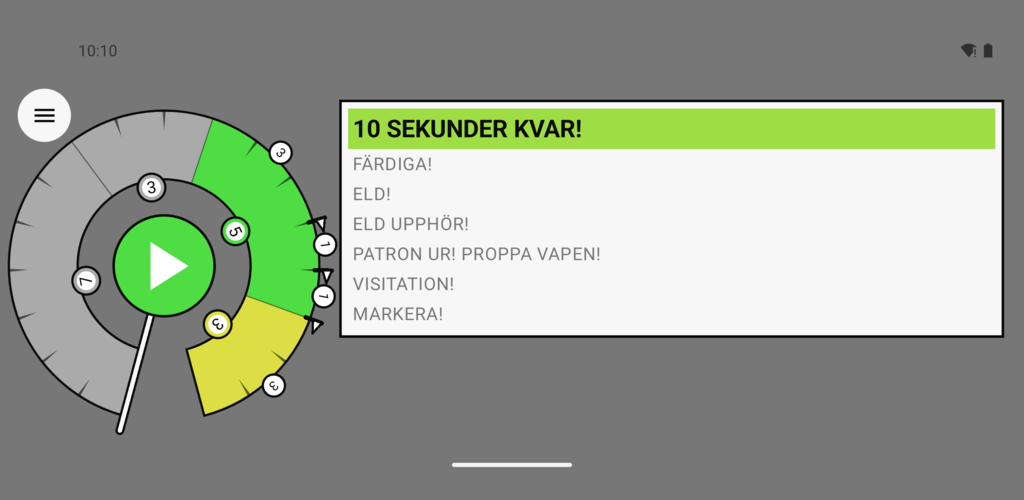
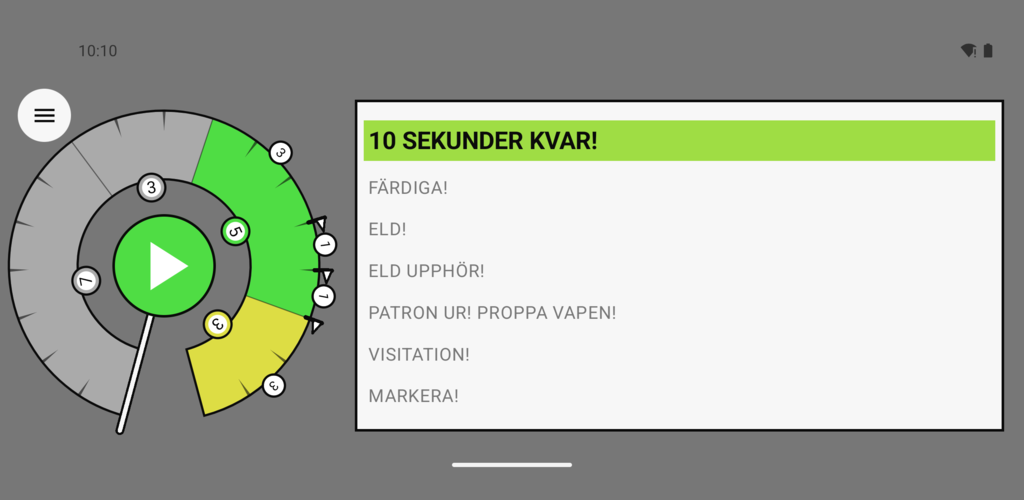
Let the command list fill the height; more air between dial and list
The list container now fills all remaining space and spreads its rows
evenly when they fit (SpaceEvenly degrades to a plain scrolling list on
heights where they don't, which the highlight auto-scroll needs). The
dial-to-list gap grows to 32dp in portrait and 18dp in landscape.
Feature graphic re-captured with the new layout.

Changed region(s): [[0.3125, 0.18, 1.0, 0.87]]

diff --git a/shared/src/commonMain/kotlin/se/kjellstrand/fieldshootingtimer/ui/CommandList.kt b/shared/src/commonMain/kotlin/se/kjellstrand/fieldshootingtimer/ui/CommandList.kt
@@ -5,7 +5,9 @@ import se.kjellstrand.fieldshootingtimer.domain.Command
 import androidx.compose.foundation.background
 import androidx.compose.foundation.border
 import androidx.compose.foundation.clickable
+import androidx.compose.foundation.layout.Arrangement
 import androidx.compose.foundation.layout.PaddingValues
+import androidx.compose.foundation.layout.fillMaxSize
 import androidx.compose.foundation.layout.fillMaxWidth
 import androidx.compose.foundation.layout.padding
 import androidx.compose.foundation.lazy.LazyColumn
@@ -48,8 +50,12 @@ fun CommandList(
     LazyColumn(
         state = listState,
         contentPadding = PaddingValues(Paddings.Medium),
+        // SpaceEvenly spreads the rows over the full height when they fit;
+        // when they don't (small landscape screens) it degrades to a plain
+        // scrolling list, which the highlight auto-scroll depends on.
+        verticalArrangement = Arrangement.SpaceEvenly,
         modifier = Modifier
-            .fillMaxWidth()
+            .fillMaxSize()
             .padding(Paddings.Large)
             .border(Paddings.Tiny, BlackColor)
             .background(WhiteColor)

diff --git a/shared/src/commonMain/kotlin/se/kjellstrand/fieldshootingtimer/ui/LandscapeLayout.kt b/shared/src/commonMain/kotlin/se/kjellstrand/fieldshootingtimer/ui/LandscapeLayout.kt
@@ -51,7 +51,7 @@ fun LandscapeLayout(
             horizontalAlignment = Alignment.CenterHorizontally,
             modifier = Modifier
                 .fillMaxHeight()
-                .padding(Paddings.Tiny)
+                .padding(start = Paddings.Large, top = Paddings.Tiny, end = Paddings.Tiny, bottom = Paddings.Tiny)
                 .navigationBarsPadding()
         ) {
             statelessSettingsComposable()

diff --git a/shared/src/commonMain/kotlin/se/kjellstrand/fieldshootingtimer/ui/PortraitLayout.kt b/shared/src/commonMain/kotlin/se/kjellstrand/fieldshootingtimer/ui/PortraitLayout.kt
@@ -41,7 +41,7 @@ fun PortraitLayout(
                 .fillMaxWidth()
                 .padding(top = Paddings.Large)
         )
-        Spacer(modifier = Modifier.padding(Paddings.Medium))
+        Spacer(modifier = Modifier.padding(Paddings.Large))
         statelessSettingsComposable()
     }
 }
